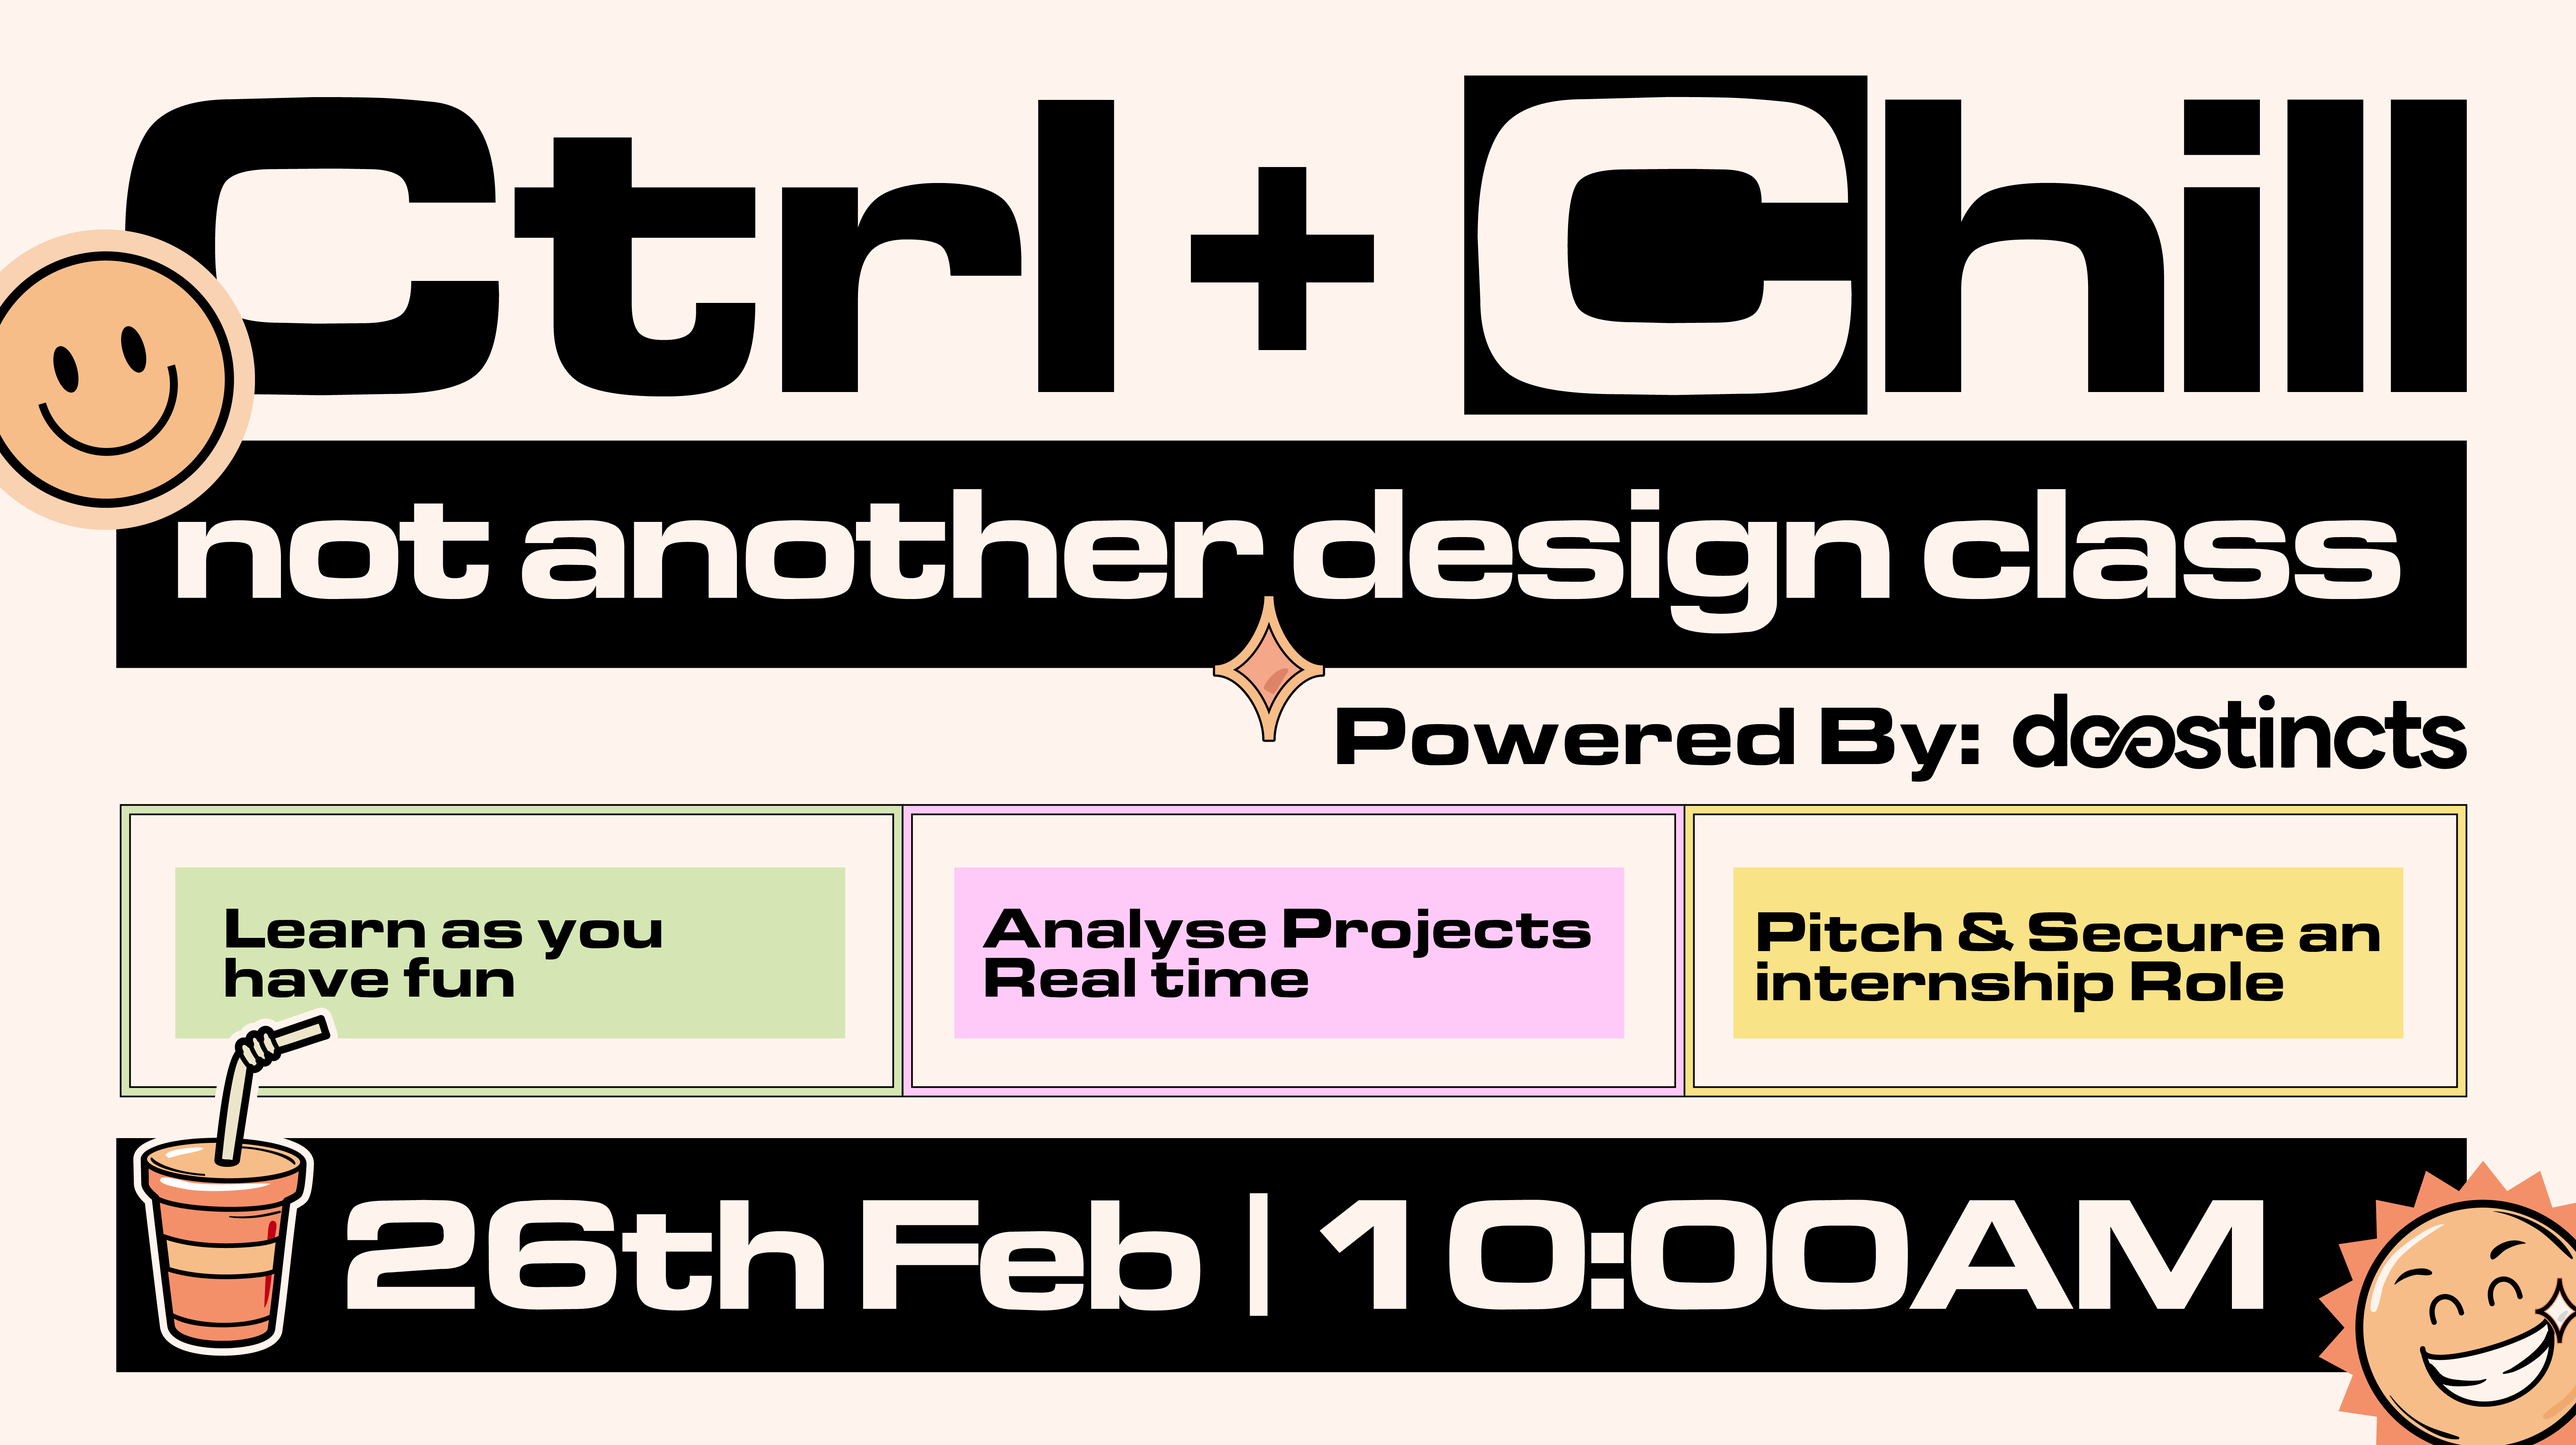
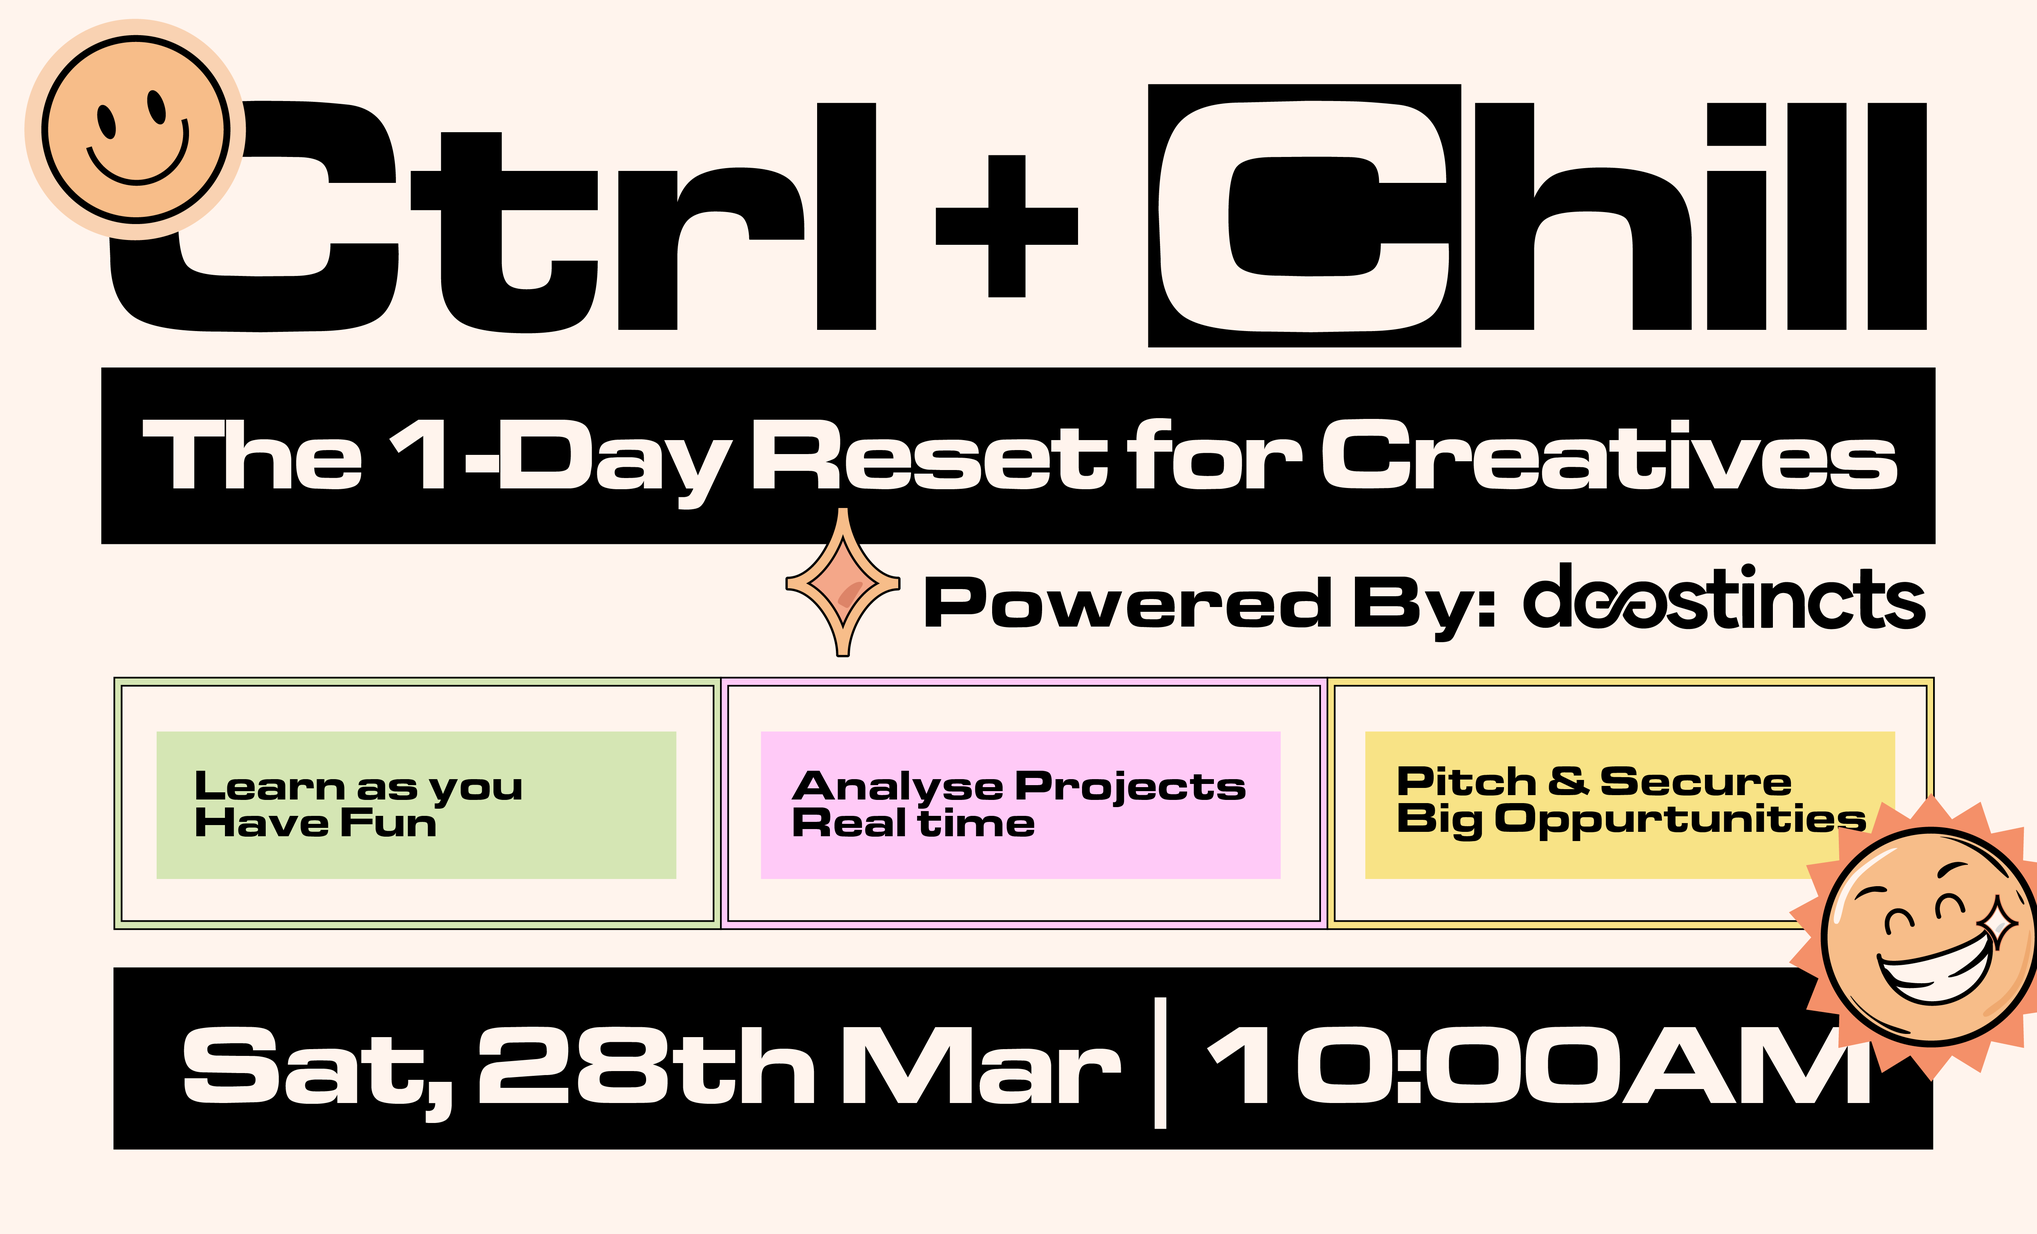
replace image

diff --git a/deestincts/app/career/trainings/ctrl-chill/page.tsx b/deestincts/app/career/trainings/ctrl-chill/page.tsx
@@ -351,7 +351,7 @@ function ReviewCarousel() {
         aria-label="Previous"
       >
         <svg width="20" height="20" viewBox="0 0 20 20" fill="none">
-          <path d="M13 4L7 10L13 16" stroke="currentColor" strokeWidth="2.2" strokeLinecap="round" strokeLinejoin="round"/>
+          <path d="M13 4L7 10L13 16" stroke="currentColor" strokeWidth="2.2" strokeLinecap="round" strokeLinejoin="round" />
         </svg>
       </button>
       <button
@@ -361,7 +361,7 @@ function ReviewCarousel() {
         aria-label="Next"
       >
         <svg width="20" height="20" viewBox="0 0 20 20" fill="none">
-          <path d="M7 4L13 10L7 16" stroke="currentColor" strokeWidth="2.2" strokeLinecap="round" strokeLinejoin="round"/>
+          <path d="M7 4L13 10L7 16" stroke="currentColor" strokeWidth="2.2" strokeLinecap="round" strokeLinejoin="round" />
         </svg>
       </button>
 
@@ -484,10 +484,10 @@ export default function Home() {
           <div className="mt-10">
             <a
               href="#register"
-              className="inline-block px-10 py-4 rounded-full text-lg font-black shadow-2xl transition-all duration-300 hover:scale-105"
+              className="inline-block px-4 py-4 rounded-full text-2xl font-black shadow-2xl transition-all duration-300 hover:scale-105"
               style={{ backgroundColor: colors.yellow, color: "#0a0a0f" }}
             >
-              👉 Secure My Seat
+              Secure My Seat
             </a>
           </div>
         </header>
@@ -640,8 +640,8 @@ export default function Home() {
             ))}
           </div>
 
-         {/* Review Video */}
-         <div className="w-full rounded-2xl overflow-hidden border border-white/10 mb-8">
+          {/* Review Video */}
+          <div className="w-full rounded-2xl overflow-hidden border border-white/10 mb-8">
             <video
               src="/reviews/reviewvideo.mp4"
               controls
@@ -709,9 +709,9 @@ export default function Home() {
           </p>
 
           <div className="flex flex-col md:flex-row justify-center gap-6 mb-10 text-lg font-medium">
-            <span style={{ color: colors.pink }}>26th February 2026</span>
+            <span style={{ color: colors.pink }}>Saturday, 28th March 2026</span>
             <span style={{ color: colors.mint }}>10:00 AM</span>
-            <span style={{ color: colors.yellow }}>Cre8tive Space, Surulere, Lagos</span>
+            <span style={{ color: colors.yellow }}>Bridge by Obsidian, 6 University Rd, Onike Lagos, Nigeria</span>
           </div>
 
           <CountdownTimer />
@@ -730,10 +730,10 @@ export default function Home() {
           </p>
           <a
             href="#register"
-            className="inline-block px-10 py-4 rounded-full text-lg font-black shadow-2xl transition-all duration-300 hover:scale-105"
+            className="inline-block px-4 py-4 rounded-full text-xl font-black shadow-2xl transition-all duration-300 hover:scale-105"
             style={{ backgroundColor: colors.yellow, color: "#0a0a0f" }}
           >
-            👉 Secure Your Seat Now
+            Secure Your Seat Now
           </a>
         </section>
 

diff --git a/deestincts/lib/community-data.ts b/deestincts/lib/community-data.ts
@@ -55,7 +55,7 @@ export interface Training {
       description:
         "Not another design class. Learn as you have fun, analyse projects real-time, and pitch & secure an internship role. Only 25 spots available at CR8TIVE SPACE in Lagos.",
       instructor: "deestincts",
-      instructorImage: "/skilluplogo.png",
+      instructorImage: "/images/deestincts.png",
       duration: "1 day",
       // level: "Beginner",
       status: "upcoming",
@@ -65,7 +65,7 @@ export interface Training {
       startDate: "2026-02-26",
       endDate: "2026-02-26",
       category: "Design Workshop",
-      image: "/ctrlchill.jpeg",
+      image: "/ctrlflyer.PNG",
       slug: "ctrl-chill",
       rating: 4.9,
       totalReviews: 0,
